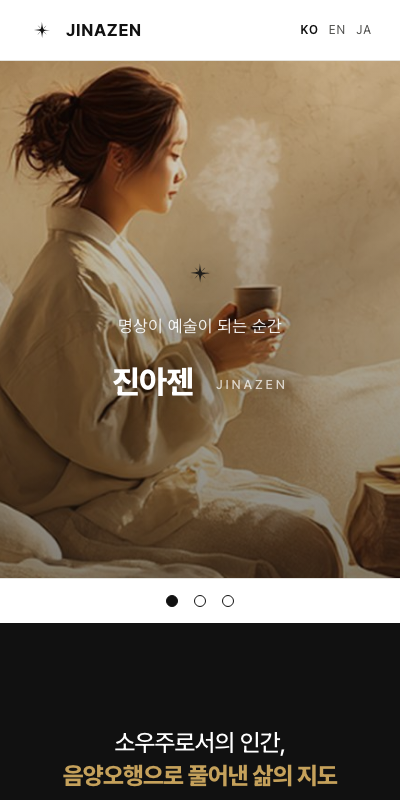
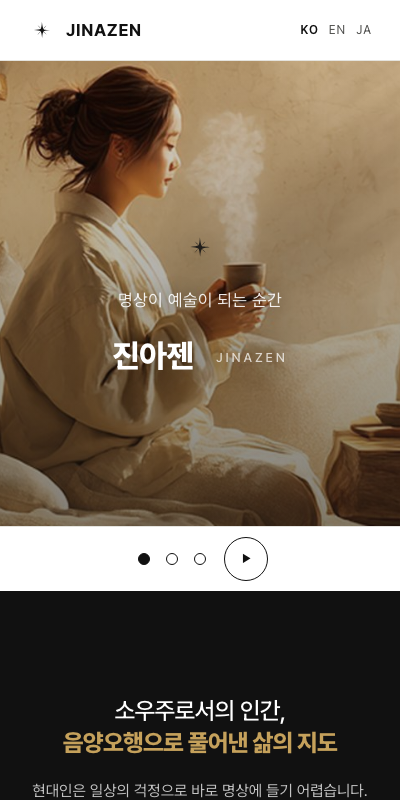
site: 배너 멈춤/재생 단추(WCAG 2.2.2) · ② 소유자 문안 (SITE-44 · 브랜치 · main 미합류)
- 점 셋 옆 단추 · aria-pressed · 「자동 넘김 멈춤/재생」 · 폰에서도 44×44 · 스크립트 꺼지면 없음
- 동작 줄이기 설정이면 처음부터 멈춤 · 「재생」을 누르면 잠시 멈춤도 풀고 돈다
- 실측: 누르면 멈춤 · 다시 누르면 한 칸 넘어감 · SITE-43 멈춤 판정 그대로
- ⚠ 첫 판은 점 단추 규칙이 이겨 24px·점 모양이었다 → 선택자 고침
- ② 한 줄 = 소유자 문안(<br> 없음) · en·ja 초안 · 그림은 자미차 그대로(명상·자연 사진 없음 · philo_bg.svg 는 후보로 보고)
- style.css 토큰 변경 0 · 지운 줄 0 · 갤러리 갱신

diff --git a/docs/screenshots/story-2/index.html b/docs/screenshots/story-2/index.html
@@ -1,22 +1,22 @@
 <!doctype html><html lang="ko"><head><meta charset="utf-8"><meta name="viewport" content="width=device-width, initial-scale=1"><meta name="robots" content="noindex">
-<title>첫 화면 배너 — 화면 검토 (SITE-43)</title>
+<title>첫 화면 배너 — 화면 검토 (SITE-43 · SITE-44)</title>
 <style>:root{--ink:#111;--soft:#4E4E4C;--line:#E4E3DE}body{margin:0;font-family:"Pretendard Variable",Pretendard,"Apple SD Gothic Neo",system-ui,sans-serif;color:var(--ink);background:#fff;line-height:1.6}header,main{max-width:1760px;margin:0 auto;padding:0 24px}header{padding-top:32px}h1{font-size:28px;margin:0}header p{color:var(--soft);max-width:70rem}section{border-top:1px solid var(--line);padding:28px 0}h2{font-size:20px;margin:0}.path{margin:4px 0 14px;color:var(--soft)}.pair{display:grid;grid-template-columns:400px 1fr;gap:24px;align-items:start}figure{margin:0}figcaption{font-size:13px;color:var(--soft);margin-bottom:6px}img{display:block;width:100%;height:auto;border:1px solid var(--line);border-radius:10px;background:#fff}@media(max-width:900px){.pair{grid-template-columns:1fr}}</style></head>
 <body><header><h1>첫 화면 배너 셋 — 화면 검토</h1>
 <p>브랜치 <code>story-2</code> · ko · 폰 400 과 PC 1280 을 나란히 · 헤드리스 Chrome · 2026-09-22 · 🔴 main 에 합치지 않았다(웹 이름 바꾸기가 먼저).
-배너 ②③ 은 트랙을 밀어 뜬 것이다(캡처 전에 자동 넘김을 멈췄다). 점 셋은 스크립트가 붙인다.</p>
+배너 ②③ 은 트랙을 밀어 뜬 것이다(캡처 전에 손을 대 자동 넘김을 멈췄다 — 그래서 멈춤 단추가 ▶ 「재생」 상태로 보인다). 점 셋 · 멈춤 단추는 스크립트가 붙인다. SITE-44: 멈춤/재생 단추 · ② 소유자 문안.</p>
 </header><main>
-<section id="b1"><h2>① 진아젠 — 단추 없음 · 이 화면의 h1</h2><p class="path">점 셋이 첫 화면 안(폰 613px · PC 611px)</p>
+<section id="b1"><h2>① 진아젠 — 단추 없음 · 이 화면의 h1</h2><p class="path">점 셋 · 멈춤 단추(44×44)가 첫 화면 안 — 폰 571/581px · PC 621/631px</p>
 <div class="pair"><figure><figcaption>폰 400 × 800</figcaption><img src="banner1-400.png" alt="배너 1 폰" width="400" height="800"></figure>
 <figure><figcaption>PC 1280 × 800</figcaption><img src="banner1-1280.png" alt="배너 1 PC" width="1280" height="800"></figure></div></section>
-<section id="b2"><h2>② 개인용 운세그래프 — 시작하기 · 예시 화면 보기</h2><p class="path">그림은 {{그림 대기}} — 우선 자미차(홈페이지 차 사진)</p>
+<section id="b2"><h2>② 개인용 운세그래프 — 시작하기 · 예시 화면 보기</h2><p class="path">한 줄 = 소유자 문안(SITE-44) · 그림은 {{그림 대기}} — 우선 자미차(홈페이지 차 사진)</p>
 <div class="pair"><figure><figcaption>폰 400 × 800</figcaption><img src="banner2-400.png" alt="배너 2 폰" width="400" height="800" loading="lazy"></figure>
 <figure><figcaption>PC 1280 × 800</figcaption><img src="banner2-1280.png" alt="배너 2 PC" width="1280" height="800" loading="lazy"></figure></div></section>
 <section id="b3"><h2>③ 전문가용 운세그래프 — Google Play 에서 받기 (같은 창)</h2><p class="path">그림은 대운 그래프(site_01)</p>
 <div class="pair"><figure><figcaption>폰 400 × 800</figcaption><img src="banner3-400.png" alt="배너 3 폰" width="400" height="800" loading="lazy"></figure>
 <figure><figcaption>PC 1280 × 800</figcaption><img src="banner3-1280.png" alt="배너 3 PC" width="1280" height="800" loading="lazy"></figure></div></section>
-<section id="nojs"><h2>스크립트를 끈 상태 — ③ 까지 밀어서 보인다</h2><p class="path">점 · 화살표 · 자동 넘김이 없을 뿐 배너는 셋 다 있다</p>
+<section id="nojs"><h2>스크립트를 끈 상태 — ③ 까지 밀어서 보인다</h2><p class="path">점 · 멈춤 단추 · 화살표 · 자동 넘김이 없을 뿐 배너는 셋 다 있다</p>
 <div class="pair"><figure><figcaption>폰 400 · 스크립트 끔 · 셋째 배너</figcaption><img src="nojs-banner3-400.png" alt="스크립트 끈 셋째 배너" width="400" height="800" loading="lazy"></figure><div></div></div></section>
 <section id="full"><h2>페이지 전체</h2><p class="path">https://jinazen.com/ — 위에서 아래로 끝까지</p>
-<div class="pair"><figure><figcaption>폰 400 (전체 14,684px)</figcaption><img src="ko-400.png" alt="폰 페이지 전체" width="400" height="14684" loading="lazy"></figure>
-<figure><figcaption>PC 1280 (전체 9,446px)</figcaption><img src="ko-1280.png" alt="PC 페이지 전체" width="1280" height="9446" loading="lazy"></figure></div></section>
+<div class="pair"><figure><figcaption>폰 400 (전체 14,652px)</figcaption><img src="ko-400.png" alt="폰 페이지 전체" width="400" height="14652" loading="lazy"></figure>
+<figure><figcaption>PC 1280 (전체 9,466px)</figcaption><img src="ko-1280.png" alt="PC 페이지 전체" width="1280" height="9466" loading="lazy"></figure></div></section>
 </main></body></html>

diff --git a/assets/banner.js b/assets/banner.js
@@ -1,5 +1,6 @@
 /* 첫 화면 배너 (SITE-43) — 🔴 **얹기만 한다.** 배너 셋은 CSS scroll-snap 만으로 밀어서 보인다.
-   이 파일이 하는 것: 점 셋(단추) · 좌우 화살표(PC) · 자동 넘김 · 키보드 좌우.
+   이 파일이 하는 것: 점 셋(단추) · 멈춤/재생 단추 · 좌우 화살표(PC) · 자동 넘김 · 키보드 좌우.
+   🔴 스크립트가 꺼지면 이것들이 **하나도 안 생긴다** — 자동 넘김도 없으므로 멈춤 단추도 필요 없다.
 
    🔴 자동 넘김 규칙
    - 7초마다 한 칸. 셋째 다음은 첫째.
@@ -7,8 +8,12 @@
    - 멈춤(잠시): 마우스를 올리거나(hover) 배너 안에 초점이 있을 때 — 떠나면 다시 돈다
    - 멈춤(끝까지): 손을 대면(터치 · 끌기 · 휠 · 키보드 · 점 · 화살표) — 🔴 사람이 스스로 넘기기 시작하면 다시 돌지 않는다
    - 탭이 안 보이면(document.hidden) 넘기지 않는다
-   - 🔴 prefers-reduced-motion: reduce 면 **자동 넘김이 없다**(그리고 넘김도 부드럽게 하지 않는다)
-   상태는 `data-auto` 에 적는다(on · paused · stopped · off) — 시험이 이것을 읽는다. */
+   - 🔴 prefers-reduced-motion: reduce 면 **처음부터 멈춤**(단추가 「재생」 상태로 시작) · 넘김도 부드럽게 하지 않는다.
+     사람이 「재생」을 누르면 돈다 — 스스로 고른 것이기 때문이다(SITE-44 · 소유자 확정)
+   - 🔴 **멈춤/재생 단추** (SITE-44 · WCAG 2.2.2 — 5초 넘게 움직이는 것에는 멈출 수단이 있어야 한다)
+     점 셋 옆 · `aria-pressed`(눌림 = 멈춤) · `aria-label` 「자동 넘김 멈춤」/「자동 넘김 재생」(소유자 확정 글자) ·
+     손으로 넘겨 멈춘 것도 이 단추에 **멈춤**으로 보인다 — 다시 누르면 돈다
+   상태는 `data-auto` 에 적는다(on · paused · stopped) — 시험이 이것을 읽는다. */
 (function () {
   var root = document.querySelector(".banners");
   if (!root) return;
@@ -18,10 +23,16 @@
 
   var INTERVAL = 7000;
   var reduce = window.matchMedia("(prefers-reduced-motion: reduce)");
-  var stopped = false, paused = false;
+  var stopped = reduce.matches, paused = false;
+  var toggle = null;
 
   function state() {
-    root.setAttribute("data-auto", reduce.matches ? "off" : stopped ? "stopped" : paused ? "paused" : "on");
+    root.setAttribute("data-auto", stopped ? "stopped" : paused ? "paused" : "on");
+    if (toggle) {
+      toggle.setAttribute("aria-pressed", stopped ? "true" : "false");
+      toggle.setAttribute("aria-label", root.getAttribute(stopped ? "data-play" : "data-pause") || "");
+      toggle.firstChild.textContent = stopped ? "\u25B6\uFE0E" : "\u275A\u275A";
+    }
   }
   function index() {
     return Math.round(track.scrollLeft / Math.max(1, track.clientWidth));
@@ -48,6 +59,17 @@
     dots.appendChild(b);
     return b;
   });
+  // ── 멈춤/재생 — 점 셋 옆 ──
+  toggle = document.createElement("button");
+  toggle.type = "button";
+  toggle.className = "banner-pause";
+  var icon = document.createElement("span");
+  icon.setAttribute("aria-hidden", "true");
+  toggle.appendChild(icon);
+  // 🔴 「재생」을 누르면 잠시 멈춤(올림·초점)도 푼다 — 단추가 배너 **안**에 있어 누르는 순간 초점 멈춤이 걸리기 때문이다.
+  //    사람이 명시적으로 돌리라고 한 것이 이긴다(APG 캐러셀 패턴).
+  toggle.addEventListener("click", function () { stopped = !stopped; if (!stopped) paused = false; state(); });
+  dots.appendChild(toggle);
   root.appendChild(dots);
 
   // ── 좌우 화살표 — PC 만(CSS 가 폰에서 숨긴다) ──
@@ -91,10 +113,10 @@
   root.addEventListener("focusout", function (e) {
     if (!root.contains(e.relatedTarget)) { paused = false; state(); }
   });
-  if (reduce.addEventListener) reduce.addEventListener("change", state);
+  if (reduce.addEventListener) reduce.addEventListener("change", function () { if (reduce.matches) stopped = true; state(); });
 
   setInterval(function () {
-    if (stopped || paused || reduce.matches || document.hidden) return;
+    if (stopped || paused || document.hidden) return;
     go(index() + 1);
   }, INTERVAL);
 

diff --git a/ja/index.html b/ja/index.html
@@ -52,10 +52,10 @@
         점 셋 · 좌우 화살표(PC) · 자동 넘김만 **얹는다**. 꺼져 있으면 그것들이 안 생길 뿐이다.
      🔴 h1 은 ① 에만 하나(「진아젠 JINAZEN」 · SITE-40 판정 그대로). ②③ 제목은 h2.
      🔴 ① 에는 단추가 없다(소유자 확정). 판매 단추는 ② 개인용(/report/) · ③ 전문가용(Play) 으로 옮겼다.
-     글자 출처: ② 한 줄 = 아래 #report 본문(`flow_copy.SALES_INTRO`)에서 넷째 항목 이름만 「리포트」로 ·
+     글자 출처: ② 한 줄 = 🟢 소유자 문안(SITE-44 · 2026-09-22 — 줄바꿈은 <br> 로 옮기지 않았다) ·
                ③ 한 줄 = #app 부제 둘째 줄 · 단추 = 소유자 확정 문안.
      그림: ① 지금 사진(CSS 배경 · preload) · ② {{그림 대기}} — 우선 자미차(tea_jami) · ③ 대운 그래프(site_01) · ②③ lazy. -->
-<section class="banners" aria-roledescription="carousel" aria-label="ジナゼンのご案内" data-prev="前のバナー" data-next="次のバナー" data-dot="{n}番目のバナー">
+<section class="banners" aria-roledescription="carousel" aria-label="ジナゼンのご案内" data-prev="前のバナー" data-next="次のバナー" data-dot="{n}番目のバナー" data-pause="自動切り替えを停止" data-play="自動切り替えを再生">
 <div class="banner-track" tabindex="0">
 <div class="banner philo" id="banner-1" role="group" aria-roledescription="slide" aria-label="1 / 3"><div class="wrap">
 <img class="mark" src="../assets/img/northstar.svg" alt="" width="200" height="200">
@@ -64,10 +64,10 @@
      「진아젠 운세그래프」(앱 이름)는 #app 의 h2 로 내려갔다 — <title> · JSON-LD 는 그대로 앱 이름을 말한다. -->
 <h1 class="line2">ジナゼン <small>JINAZEN</small></h1>
 </div></div>
-<!-- 초안 · 소유자 확인 — 원문: 「개인용 운세그래프 / 서비스는 이용자가 입력한 생년월일·시각·성별을 바탕으로 사주명반·자미두수·타로운명수를 화면으로 제공하고, 매장 결과지와 같은 내용의 리포트를 제공하는 디지털 콘텐츠입니다.」 -->
+<!-- 초안 · 소유자 확인 — 원문: 「개인용 운세그래프 / 생년월일 하나로 사주명반·자미두수·타로운명수를 보고, 나만의 운세그래프로 삶의 흐름을 읽어 보세요.」 (SITE-44 · 소유자 문안 2026-09-22) -->
 <div class="banner pad alt feature" id="banner-2" role="group" aria-roledescription="slide" aria-label="2 / 3"><div class="wrap">
 <div class="text"><h2>個人向け <b>運勢グラフ</b></h2>
-<p>ご入力いただいた生年月日・時刻・性別をもとに、四柱の命盤・紫微斗数・タロット運命数を画面でご提供し、店舗の結果紙と同じ内容のリポートをお届けするデジタルコンテンツです。</p>
+<p>生年月日ひとつで四柱の命盤・紫微斗数・タロット運命数を見て、自分だけの運勢グラフで人生の流れを読んでみてください。</p>
 <p class="acts">
 <a class="cta fill" href="https://jinazen.com/report/">はじめる</a>
 <a class="cta" href="https://jinazen.com/report/sample">サンプルを見る</a>

diff --git a/en/index.html b/en/index.html
@@ -52,10 +52,10 @@
         점 셋 · 좌우 화살표(PC) · 자동 넘김만 **얹는다**. 꺼져 있으면 그것들이 안 생길 뿐이다.
      🔴 h1 은 ① 에만 하나(「진아젠 JINAZEN」 · SITE-40 판정 그대로). ②③ 제목은 h2.
      🔴 ① 에는 단추가 없다(소유자 확정). 판매 단추는 ② 개인용(/report/) · ③ 전문가용(Play) 으로 옮겼다.
-     글자 출처: ② 한 줄 = 아래 #report 본문(`flow_copy.SALES_INTRO`)에서 넷째 항목 이름만 「리포트」로 ·
+     글자 출처: ② 한 줄 = 🟢 소유자 문안(SITE-44 · 2026-09-22 — 줄바꿈은 <br> 로 옮기지 않았다) ·
                ③ 한 줄 = #app 부제 둘째 줄 · 단추 = 소유자 확정 문안.
      그림: ① 지금 사진(CSS 배경 · preload) · ② {{그림 대기}} — 우선 자미차(tea_jami) · ③ 대운 그래프(site_01) · ②③ lazy. -->
-<section class="banners" aria-roledescription="carousel" aria-label="JINAZEN banners" data-prev="Previous banner" data-next="Next banner" data-dot="Banner {n}">
+<section class="banners" aria-roledescription="carousel" aria-label="JINAZEN banners" data-prev="Previous banner" data-next="Next banner" data-dot="Banner {n}" data-pause="Pause auto-advance" data-play="Play auto-advance">
 <div class="banner-track" tabindex="0">
 <div class="banner philo" id="banner-1" role="group" aria-roledescription="slide" aria-label="1 of 3"><div class="wrap">
 <img class="mark" src="../assets/img/northstar.svg" alt="" width="200" height="200">
@@ -64,10 +64,10 @@
      「진아젠 운세그래프」(앱 이름)는 #app 의 h2 로 내려갔다 — <title> · JSON-LD 는 그대로 앱 이름을 말한다. -->
 <h1 class="line2">JINAZEN</h1>
 </div></div>
-<!-- 초안 · 소유자 확인 — 원문: 「개인용 운세그래프 / 서비스는 이용자가 입력한 생년월일·시각·성별을 바탕으로 사주명반·자미두수·타로운명수를 화면으로 제공하고, 매장 결과지와 같은 내용의 리포트를 제공하는 디지털 콘텐츠입니다.」 -->
+<!-- 초안 · 소유자 확인 — 원문: 「개인용 운세그래프 / 생년월일 하나로 사주명반·자미두수·타로운명수를 보고, 나만의 운세그래프로 삶의 흐름을 읽어 보세요.」 (SITE-44 · 소유자 문안 2026-09-22) -->
 <div class="banner pad alt feature" id="banner-2" role="group" aria-roledescription="slide" aria-label="2 of 3"><div class="wrap">
 <div class="text"><h2>Personal <b>Fortune Graph</b></h2>
-<p>Digital content that takes the date, time and sex of birth you enter, shows your Saju natal chart, Zi Wei Dou Shu chart and Tarot destiny numbers on screen, and provides a report with the same content as the in-store result sheet.</p>
+<p>With just your date of birth, see your Saju natal chart, Zi Wei Dou Shu chart and Tarot destiny numbers, and read the flow of your life through your own Fortune Graph.</p>
 <p class="acts">
 <a class="cta fill" href="https://jinazen.com/report/">Get started</a>
 <a class="cta" href="https://jinazen.com/report/sample">See a sample</a>

diff --git a/index.html b/index.html
@@ -51,10 +51,10 @@
         점 셋 · 좌우 화살표(PC) · 자동 넘김만 **얹는다**. 꺼져 있으면 그것들이 안 생길 뿐이다.
      🔴 h1 은 ① 에만 하나(「진아젠 JINAZEN」 · SITE-40 판정 그대로). ②③ 제목은 h2.
      🔴 ① 에는 단추가 없다(소유자 확정). 판매 단추는 ② 개인용(/report/) · ③ 전문가용(Play) 으로 옮겼다.
-     글자 출처: ② 한 줄 = 아래 #report 본문(`flow_copy.SALES_INTRO`)에서 넷째 항목 이름만 「리포트」로 ·
+     글자 출처: ② 한 줄 = 🟢 소유자 문안(SITE-44 · 2026-09-22 — 줄바꿈은 <br> 로 옮기지 않았다) ·
                ③ 한 줄 = #app 부제 둘째 줄 · 단추 = 소유자 확정 문안.
      그림: ① 지금 사진(CSS 배경 · preload) · ② {{그림 대기}} — 우선 자미차(tea_jami) · ③ 대운 그래프(site_01) · ②③ lazy. -->
-<section class="banners" aria-roledescription="carousel" aria-label="진아젠 소개 배너" data-prev="이전 배너" data-next="다음 배너" data-dot="{n}번째 배너">
+<section class="banners" aria-roledescription="carousel" aria-label="진아젠 소개 배너" data-prev="이전 배너" data-next="다음 배너" data-dot="{n}번째 배너" data-pause="자동 넘김 멈춤" data-play="자동 넘김 재생">
 <div class="banner-track" tabindex="0">
 <div class="banner philo" id="banner-1" role="group" aria-roledescription="slide" aria-label="1 / 3"><div class="wrap">
 <img class="mark" src="assets/img/northstar.svg" alt="" width="200" height="200">
@@ -65,7 +65,7 @@
 </div></div>
 <div class="banner pad alt feature" id="banner-2" role="group" aria-roledescription="slide" aria-label="2 / 3"><div class="wrap">
 <div class="text"><h2>개인용 <b>운세그래프</b></h2>
-<p>서비스는 이용자가 입력한 생년월일·시각·성별을 바탕으로 사주명반·자미두수·타로운명수를 화면으로 제공하고, 매장 결과지와 같은 내용의 리포트를 제공하는 디지털 콘텐츠입니다.</p>
+<p>생년월일 하나로 사주명반·자미두수·타로운명수를 보고, 나만의 운세그래프로 삶의 흐름을 읽어 보세요.</p>
 <p class="acts">
 <a class="cta fill" href="https://jinazen.com/report/">시작하기</a>
 <a class="cta" href="https://jinazen.com/report/sample">예시 화면 보기</a>

diff --git a/assets/style.css b/assets/style.css
@@ -521,3 +521,15 @@ footer .cr>:nth-child(3),footer .cr>:nth-child(4){font-size:11.5px;font-weight:5
 /* ⚠ SITE-43 — 배너 ② 한 줄이 폰에서 「바탕으/로」 · 「콘/텐츠」로 끊겼다(실측). `.usp p` · `.report p` 와 같은 규칙 */
 :lang(ko) .banner p{word-break:keep-all}
 :lang(ja) .banner p{word-break:auto-phrase}
+
+/* ── SITE-44 멈춤/재생 단추 (2026-09-22 · WCAG 2.2.2) — 🔴 토큰 변경 0 · 새 규칙 하나
+   | 값 | 출처 |
+   | 44×44 · 모서리 999px · 테두리 `--ink` · 바탕 흰 반투명 · 글자 `--ink` | `.banner-arrow` 그대로(SITE-43) |
+   | 점과의 틈 8px | 새 값 — 점 단추 사이 4px 의 두 배(단추 무리가 갈린다) |
+   🔴 폰에서도 44px — 손가락 목표(WCAG 2.5.5 권장). 점 줄이 그만큼 높아진다(첫 화면 안인지 실측) */
+.banner-dots{align-items:center}
+/* ⚠ 선택자를 `.banner-dots .banner-pause` 로 — `.banner-dots button`(점 단추 24px · 0,1,1)이 `.banner-pause`(0,1,0)를
+     이겨 단추가 **24px 로 줄고 점 모양까지 붙었다**(실측). 점 가상요소는 이 단추에서 끈다 */
+.banner-dots .banner-pause{width:44px;height:44px;margin-left:8px;padding:0;border-radius:999px;border:1px solid var(--ink);
+  background:rgba(255,255,255,.92);color:var(--ink);font-size:13px;line-height:1;cursor:pointer;letter-spacing:-1px}
+.banner-dots .banner-pause::before{content:none}

diff --git a/docs/tasks/TASK-SITE-44-BANNER-FIX-1.md b/docs/tasks/TASK-SITE-44-BANNER-FIX-1.md
@@ -1,0 +1,53 @@
+# TASK-SITE-44-BANNER-FIX-1 — 배너 멈춤 단추 · ② 문안 (story-2 이어서 · 합치지 않음)
+
+- 착수 2026-09-22 21:56 KST · 종료는 보고에 · 브랜치 `story-2` (착수 HEAD `5470d62`) · 🔴 **main 에 합치지 않았다**(WEB-54 이름 바꾸기와 같은 날)
+- 🔴 privacy/ · 사업자정보 · DNS · Pages · Worker · Route 변경 0 · style.css 토큰 변경 0 · 지운 줄 0(덧붙임만)
+
+## §1 멈춤/재생 단추 (소유자 확정 · WCAG 2.2.2)
+
+- 점 셋 **옆** · `<button type="button" class="banner-pause">` · `aria-pressed`(눌림 = 멈춤) · `aria-label` 「자동 넘김 멈춤」 ↔ 「자동 넘김 재생」
+  (en 「Pause/Play auto-advance」 · ja 「自動切り替えを停止/再生」 — 초안) · 그림 글자 ❚❚ / ▶ 는 `aria-hidden`
+- 🔴 스크립트가 꺼지면 단추도 없다(실측 0개 · 배너는 그대로 밀린다)
+- 🔴 동작 줄이기 설정이면 **처음부터 멈춤**(「재생」 · 눌림) — 사람이 「재생」을 누르면 돈다(스스로 고른 것)
+- 손으로 넘겨 멈춘 것(터치 · 끌기 · 키보드 · 점 · 화살표)도 이 단추에 멈춤으로 보이고, 누르면 다시 돈다
+- 🔴 「재생」을 누르면 잠시 멈춤(올림·초점)도 푼다 — 단추가 배너 **안**에 있어 누르는 순간 초점 멈춤이 걸리기 때문(APG 캐러셀 패턴: 명시적으로 돌리라고 한 것이 이긴다)
+- ⚠ 라벨이 상태에 따라 바뀌면서 `aria-pressed` 도 함께 쓰는 것은 소유자 확정 그대로다. APG 는 둘 중 하나(라벨 고정 + pressed, 또는 라벨만 바꿈)를 권한다 —
+  화면 읽기 프로그램이 「자동 넘김 재생, 눌림」으로 읽는다. 바꿀지는 소유자 결정
+
+### 실측 (가상 시간 · smooth 를 즉시 이동으로 바꿔 판정만)
+
+| | 시작 | 누름 1 | 누름 1 + 7.5초 | 누름 2 | 누름 2 + 7.5초 |
+|---|---|---|---|---|---|
+| 보통 | on · pressed=false · 「멈춤」 ❚❚ | stopped · true · 「재생」 ▶ | 0번 그대로 | on · false · 「멈춤」 | **1번으로 넘어감** |
+| 동작 줄이기 | **stopped · true · 「재생」** | on · false | **1번으로 넘어감** | stopped · true | 그대로 |
+
+- 키보드: 네이티브 `<button>` · 초점 받음(`document.activeElement` 일치 · tabIndex 0) — ⚠ 실제 Enter/Space 입력은 헤드리스 합성 이벤트로 재지 못했다(네이티브 단추의 기본 동작)
+- SITE-43 판정 전부 그대로 — 자동 7초 · 올림/초점 잠시 · 떠나면 다시 · 터치·키보드·점 끝까지 · 탭 숨김 안 넘김
+- 크기 — 🔴 **폰 400 에서도 44×44** (세 언어 × 400 · 761 · 1280 전부)
+  ⚠ 처음에는 **24×24 에 점 모양까지** 붙었다 — `.banner-dots button`(점 단추 · 0,1,1)이 `.banner-pause`(0,1,0)를 이겼다. 선택자를 `.banner-dots .banner-pause` 로 고치고 점 가상요소를 껐다
+- 첫 화면 — 점 셋 · 단추 모두 안(가장 낮은 곳 en 400 의 633px)
+
+새 규칙 값: 44×44 · 999px · `--ink` 테두리·글자 · `rgba(255,255,255,.92)` = `.banner-arrow`(SITE-43) 그대로 · 점과의 틈 8px(새 값 — 점 사이 4px 의 두 배).
+
+## §2 ② 한 줄 — 소유자 문안
+
+「생년월일 하나로 사주명반·자미두수·타로운명수를 보고, 나만의 운세그래프로 삶의 흐름을 읽어 보세요.」 — 🔴 줄바꿈은 `<br>` 로 옮기지 않았다(폰 400 실측: 두 줄 · 가운데 꺾임 없음).
+en · ja 초안 + 원문 주석(옛 원문 주석을 새 원문으로 바꿨다). 머리 주석의 출처 줄도 「소유자 문안(SITE-44)」으로.
+
+### ② 그림 — 🔴 자미차 그대로
+
+홈페이지 그림 중 **사진**은 명상 사진(① 이 씀) · 명상아티스트 초상 · 차 봉지 셋뿐이다 — 명상·자연 **사진**이 따로 없다. 지시대로 자미차를 그대로 뒀다.
+⚠ 후보 하나: `assets/img/philo_bg.svg` — **어디에도 안 쓰이는** 밤하늘 · 북극성 **그림**(SVG · 1600×560). 사진이 아니라서 쓰지 않았다. 뜻은 자미차보다 가깝다(북극성 = 앱 표식).
+{{그림 대기}} 유지.
+
+## §3 확인
+
+- 정적(세 언어 · 여섯 쪽 — SITE-43 검사기): **통과**
+- 배치: 가로 넘침 0 · 메뉴 761 한 줄(여유 ko 94 · en 35 · ja 60) · 점 셋·멈춤 단추 첫 화면 안 · 단추 44×44
+- 스크립트 끔: 배너 셋 밀림 · 점 0 · 멈춤 0 · 화살표 0
+- 갤러리 `docs/screenshots/story-2/` 갱신(캡처는 손을 댄 상태라 단추가 ▶ 로 보인다)
+
+## 미검증
+
+- 실제 키보드 Enter/Space · 화면 읽기 프로그램 · 실기기 터치 · iOS Safari
+- 부드러운 넘김 실제 모양
